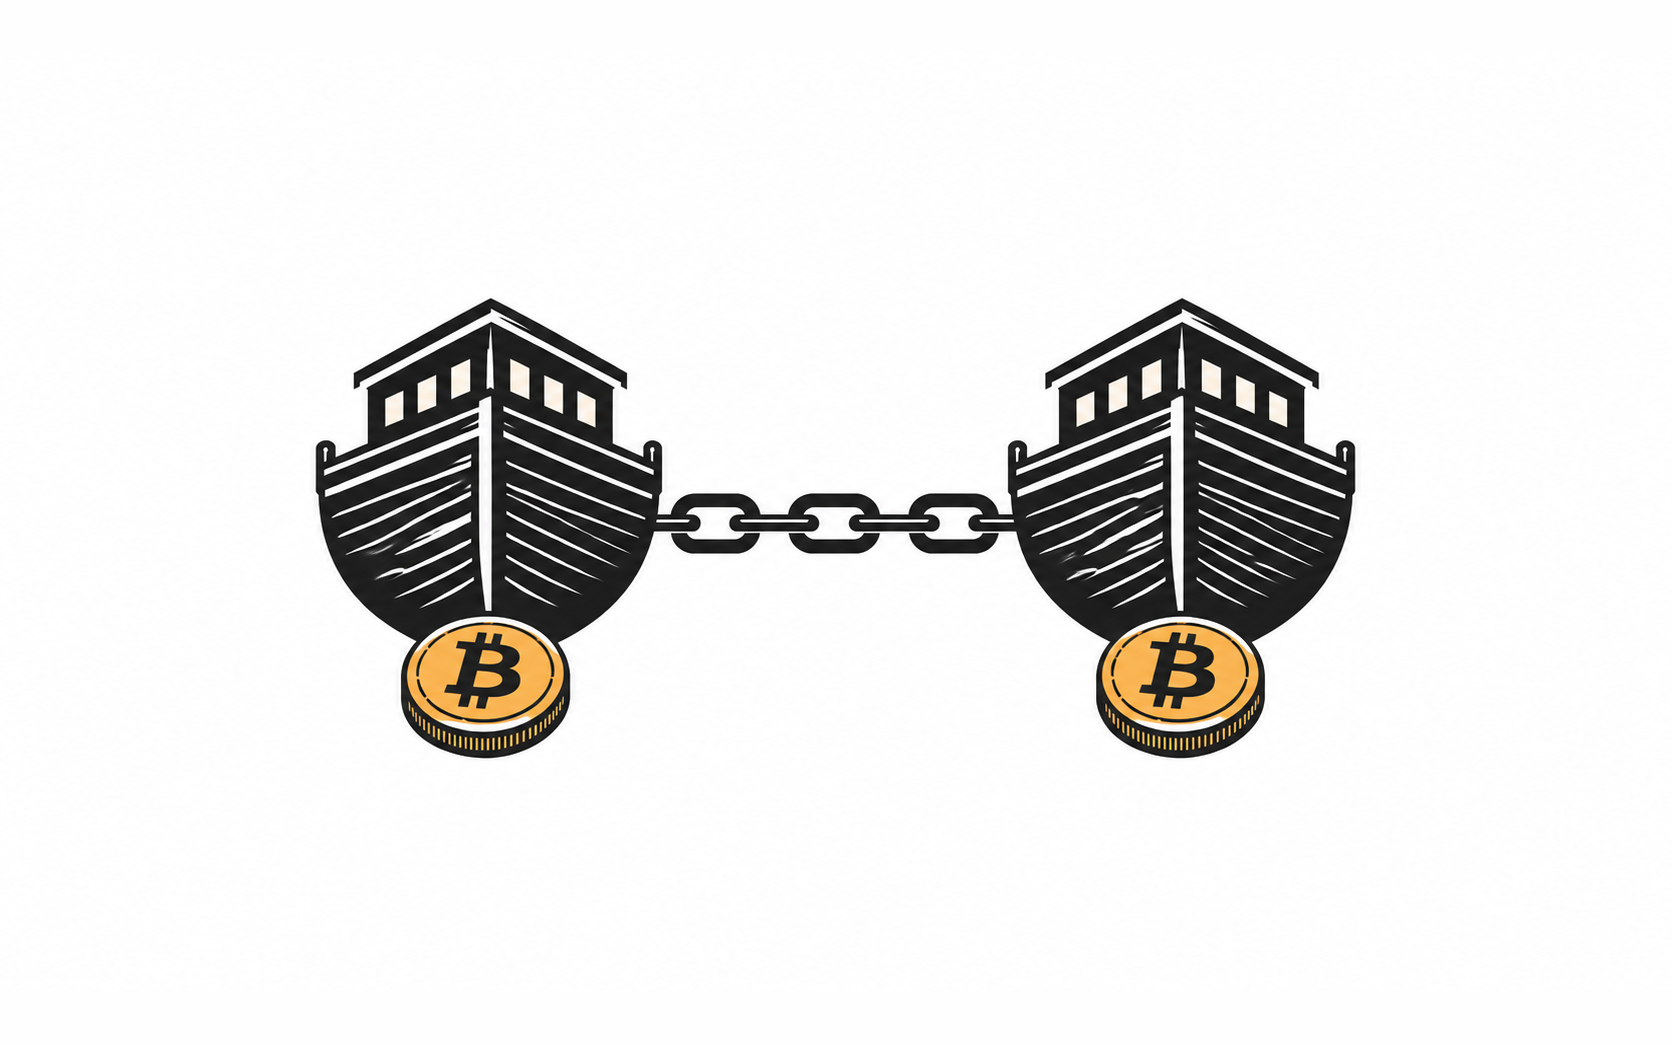
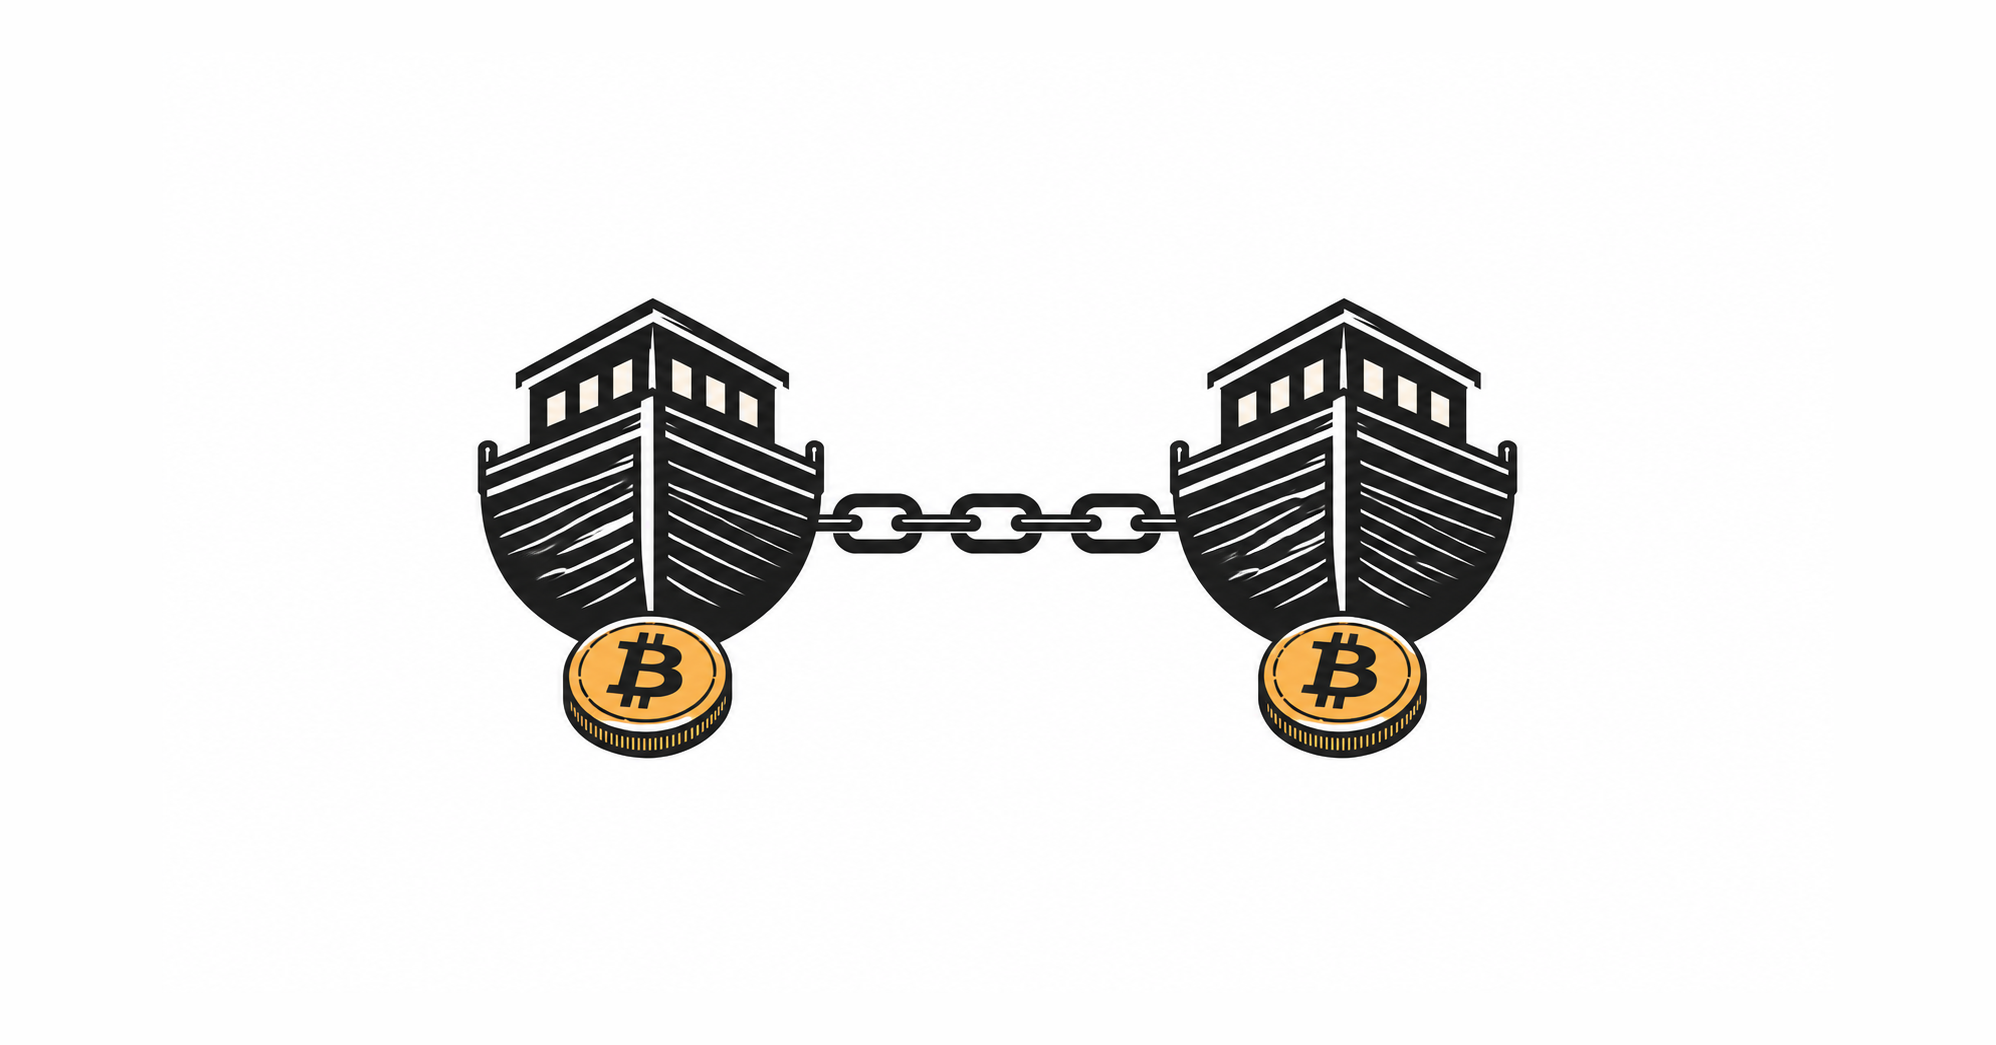
content: shift the Ark dates on a day and make the covers crop-proof
Dates become 21, 22 and 23 August, keeping the series in reading order.

X and LinkedIn crop a share image to about 1.91:1. The covers were 16:10, so
they lost roughly a sixth of their height, which clipped the ark mark on part
one. Padding each cover out to 1.91 means no vertical crop at all, the same
reason the onion cover has always rendered intact. The articles list draws
covers at their natural aspect, so all three are widened rather than just the
one that clipped, otherwise part one would sit shorter than its siblings.

Changed region(s): [[0.1866, 0.2756, 0.8086, 0.7349]]

diff --git a/content/posts/ark-forfeits-and-connectors.md b/content/posts/ark-forfeits-and-connectors.md
@@ -1,7 +1,7 @@
 ---
 title: "The Ark Protocol: Forfeit Transactions and Connector Trees"
 summary: "How leaving and refreshing a VTXO are made atomic and trustless"
-date: 2026-08-21
+date: 2026-08-22
 ShowToc: true
 cover:
     image: "/ark/cover.png"

diff --git a/content/posts/ark-oor-transactions.md b/content/posts/ark-oor-transactions.md
@@ -1,7 +1,7 @@
 ---
 title: "The Ark Protocol: OOR Transactions"
 summary: "Paying inside an Ark without waiting for a batch transaction, and what it costs"
-date: 2026-08-22
+date: 2026-08-23
 cover:
   image: "/ark/cover-oor.png"
 ShowToc: true

diff --git a/content/posts/ark-vtxos-and-trees.md b/content/posts/ark-vtxos-and-trees.md
@@ -1,7 +1,7 @@
 ---
 title: "The Ark Protocol: VTXOs and the Virtual Transaction Tree"
 summary: "How many users share one on-chain UTXO while keeping custody of their funds"
-date: 2026-08-20
+date: 2026-08-21
 ShowToc: true
 
 cover:
